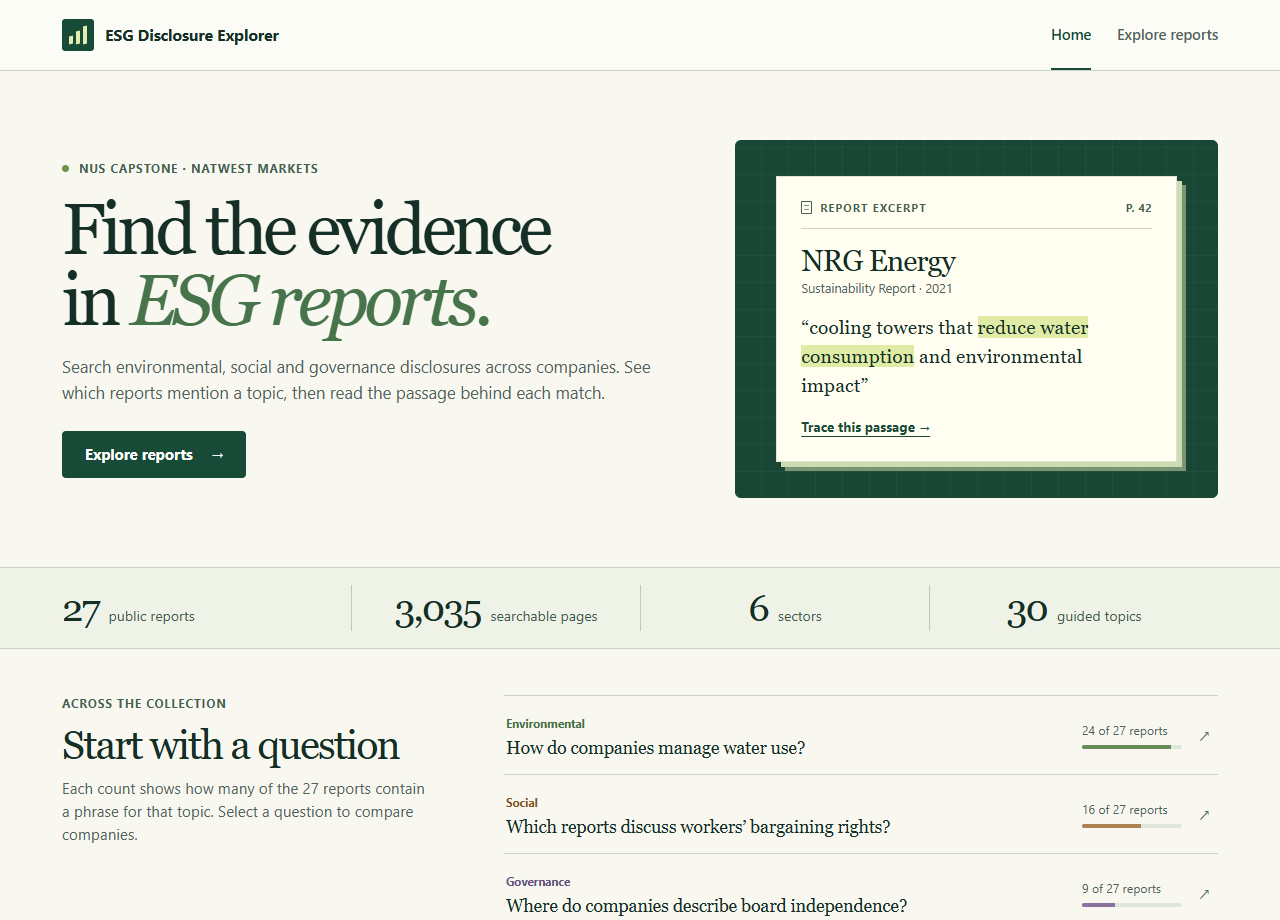
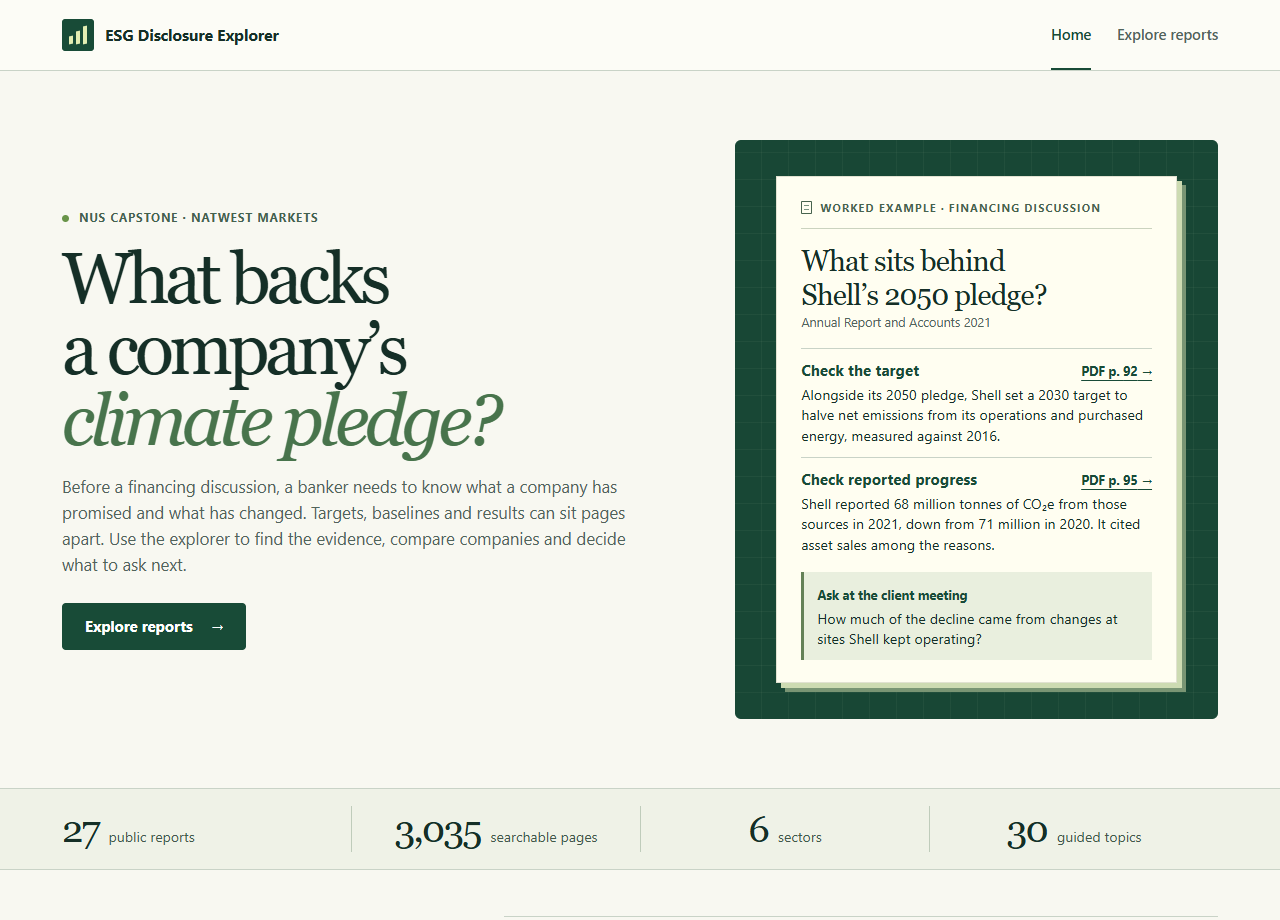
Explain transition-plan reviews with two cited pages from Shell’s 2021 report

diff --git a/frontend/src/DisclosureHome.js b/frontend/src/DisclosureHome.js
@@ -1,5 +1,5 @@
 import { RouteLink } from "./disclosureNavigation";
-import notes from "./fieldNotes.json";
+import { reviewPage, transitionReview } from "./transitionReview";
 
 const questions = [
   ["Water stewardship","How do companies manage water use?"],
@@ -7,16 +7,17 @@ const questions = [
   ["Board independence","Where do companies describe board independence?"]
 ];
 
-function EvidencePreview({catalog}) {
-  const note = notes.find(n => n.publisher === "NRG Energy" && n.page === 42);
-  const report = catalog.reports.find(r=>r.publisher===note.publisher);
-  return <aside className="evidence-preview" aria-label="Example disclosure">
+function BankingExample() {
+  return <aside className="evidence-preview" aria-labelledby="banking-question" id="banking-example">
     <div className="plate-grid" aria-hidden="true"/>
     <div className="evidence-sheet">
-      <div className="sheet-header"><span className="sheet-mark" aria-hidden="true"/><span>Report excerpt</span><span className="folio">p. {note.page}</span></div>
-      <h2>{report.publisher}</h2><p className="sheet-caption">{report.title} · {report.edition}</p>
-      <blockquote>“cooling towers that <mark>reduce water consumption</mark> and environmental impact”</blockquote>
-      <RouteLink to={{explore:true, topic:"Water stewardship",publisher:report.publisher,page:note.page}}>Trace this passage <span aria-hidden="true">→</span></RouteLink>
+      <div className="sheet-header"><span className="sheet-mark" aria-hidden="true"/>Worked example · Financing discussion</div>
+      <h2 id="banking-question">What sits behind Shell’s 2050 pledge?</h2>
+      <p className="sheet-caption">{transitionReview.title}</p>
+      <div className="case-evidence">{transitionReview.evidence.map(({page, label, summary}) =>
+        <div key={page}><RouteLink to={reviewPage(page)}>{label} <span>PDF p. {page} →</span></RouteLink><p>{summary}</p></div>
+      )}</div>
+      <div className="case-question"><strong>Ask at the client meeting</strong><p>{transitionReview.question}</p></div>
     </div>
   </aside>;
 }
@@ -25,10 +26,10 @@ export default function DisclosureHome({catalog}) {
   const sectors = new Set(catalog.reports.map(r=>r.sector));
   return <div className="home-body"><section className="home-intro frame">
     <div className="hero-copy"><p className="eyebrow"><i/> NUS capstone · NatWest Markets</p>
-      <h1>Find the evidence in <em>ESG reports.</em></h1>
-      <p className="intro-deck">Search environmental, social and governance disclosures across companies. See which reports mention a topic, then read the passage behind each match.</p>
+      <h1>What backs a company’s <em>climate pledge?</em></h1>
+      <p className="intro-deck">Before a financing discussion, a banker needs to know what a company has promised and what has changed. Targets, baselines and results can sit pages apart. Use the explorer to find the evidence, compare companies and decide what to ask next.</p>
       <RouteLink to={{explore:true}} className="primary">Explore reports <span aria-hidden="true">→</span></RouteLink>
-    </div><EvidencePreview catalog={catalog}/>
+    </div><BankingExample/>
   </section>
   <div className="collection-band"><div className="frame stat-row">
     {[[catalog.reports.length,"public reports"],[catalog.pages.length,"searchable pages"],[sectors.size,"sectors"],[catalog.topics.length,"guided topics"]].map(([n,label])=><div key={label}><strong>{n.toLocaleString("en")}</strong><span>{label}</span></div>)}
@@ -48,5 +49,5 @@ export default function DisclosureHome({catalog}) {
       <li><strong>Compare companies</strong><span>See how many pages match in each report. Narrow to a sector if needed.</span></li>
       <li><strong>Check the source</strong><span>Open a company, read a passage and follow its page reference into the PDF.</span></li></ol>
   </div></section>
-  <section className="frame origin"><h2>About the project</h2><p>The NUS Business Analytics capstone for NatWest Markets (August–December 2022) compared nine climate-disclosure indicators across companies. Its long-term net-zero classifier used a <a href="https://github.com/CWei88/Group17-Capstone/blob/4ea9478a551bafa79449aa4105246ee9c9aebf75/pipeline/Notebooks/training_datasets/Attribute%2012/A12.csv">training set of 1,003 labelled sentences</a>. The later public explorer lets you search 27 reports across all three ESG areas.</p></section></div>;
+  <section className="frame origin"><h2>About the project</h2><p>NatWest Markets wanted to compare corporate transition plans, but companies described emissions and targets in different ways across lengthy reports. The NUS Business Analytics capstone (August–December 2022) used machine learning to flag passages for bankers to review across nine climate indicators. Its long-term net-zero classifier was developed and evaluated on a <a href="https://github.com/CWei88/Group17-Capstone/blob/4ea9478a551bafa79449aa4105246ee9c9aebf75/pipeline/Notebooks/training_datasets/Attribute%2012/A12.csv">dataset of 1,003 labelled sentences</a>. The later public explorer lets you search 27 reports across all three ESG areas.</p></section></div>;
 }

diff --git a/frontend/src/PublicDemo.js b/frontend/src/PublicDemo.js
@@ -17,7 +17,8 @@ function Explorer({catalog}) {
   const [terms,setTerms]=useState(null);
   const [error,setError]=useState(false);
   const [attempt,setAttempt]=useState(0);
-  const shouldFocus=useRef(false);
+  // Page citations can open below the report controls, particularly on a phone.
+  const focusTarget=useRef(route.publisher && route.page ? "evidence-heading" : null);
   const position=useRef(null);
   const go=useCallback((next,{scroll=true}={})=>{
     const nextUrl=urlFor(next);
@@ -25,7 +26,11 @@ function Explorer({catalog}) {
     const oldRoute=readRoute(catalog);
     window.history.replaceState({disclosureScroll:window.scrollY},"",window.location.href);
     window.history.pushState(null,"",nextUrl);
-    shouldFocus.current=scroll && (oldRoute.explore!==!!next.explore || oldRoute.publisher!==(next.publisher||""));
+    focusTarget.current=null;
+    if(scroll){
+      if(next.publisher && next.page)focusTarget.current="evidence-heading";
+      else if(oldRoute.explore!==!!next.explore || oldRoute.publisher!==(next.publisher||""))focusTarget.current="main";
+    }
     position.current=scroll?0:null;
     setRoute(readRoute(catalog));
   },[catalog]);
@@ -35,7 +40,7 @@ function Explorer({catalog}) {
     if(window.location.pathname+window.location.search!==canonical)window.history.replaceState(window.history.state,"",canonical);
     function back(){
       position.current=window.history.state?.disclosureScroll ?? 0;
-      shouldFocus.current=true;
+      focusTarget.current="main";
       setRoute(readRoute(catalog));
     }
     window.addEventListener("popstate",back);
@@ -46,9 +51,11 @@ function Explorer({catalog}) {
     if(route.explore && !terms)return;
     // Move focus after React has finished replacing the previous view's controls.
     const frame=window.requestAnimationFrame(()=>{
-      if(shouldFocus.current)document.getElementById("main")?.focus({preventScroll:true});
-      if(position.current!==null)window.scrollTo(0,position.current);
-      shouldFocus.current=false;
+      const target=focusTarget.current && document.getElementById(focusTarget.current);
+      if(target)target.focus({preventScroll:true});
+      if(target?.id==="evidence-heading")target.scrollIntoView({block:"start"});
+      else if(position.current!==null)window.scrollTo(0,position.current);
+      focusTarget.current=null;
       position.current=null;
     });
     return ()=>window.cancelAnimationFrame(frame);

diff --git a/frontend/src/Passages.js b/frontend/src/Passages.js
@@ -2,6 +2,8 @@ import { useEffect, useState } from "react";
 import { words } from "./corpusSearch";
 import oracleNotes from "./oraclePageNotes.json";
 import notes from "./fieldNotes.json";
+import { RouteLink } from "./disclosureNavigation";
+import { reviewPage, transitionReview } from "./transitionReview";
 
 let pdfModule;
 function getPdfJs() {
@@ -34,7 +36,9 @@ function passages(text, query) {
 }
 
 export default function Passages({report,page,query}) {
-  const note=notes.find(n=>n.publisher===report.publisher&&n.page===page) ||
+  const casePage = report.publisher === transitionReview.publisher &&
+    transitionReview.evidence.find(item => item.page === page);
+  const note=casePage || notes.find(n=>n.publisher===report.publisher&&n.page===page) ||
     (report.publisher==="Oracle" && oracleNotes[page]);
   const [result,setResult]=useState(null);
   useEffect(()=>{
@@ -52,7 +56,13 @@ export default function Passages({report,page,query}) {
     load().catch(()=>{if(active)setResult([]);});
     return ()=>{active=false;if(job)job.destroy().catch(()=>{});};
   },[report.url,report.publisher,page,query,note]);
-  if(note)return <>{note.excerpt&&<blockquote>“{note.excerpt}”</blockquote>}<p className="reading-note">{note.note}</p></>;
+  if(note)return <>{note.excerpt&&<blockquote>“{note.excerpt}”</blockquote>}<p className="reading-note">{note.note}</p>
+    {casePage && <div className="case-related"><strong>Financing discussion</strong>
+      <p>{transitionReview.question}</p>
+      {transitionReview.evidence.filter(item => item.page !== page).map(item =>
+        <RouteLink key={item.page} to={reviewPage(item.page)}>{item.label} · PDF p. {item.page} →</RouteLink>
+      )}
+    </div>}</>;
   if(report.publisher==="Oracle")return <p className="reading-note">Oracle provides this page in its own PDF viewer. Follow the source link to read the original text.</p>;
   if(!result)return <p className="loading-passage" role="status">Reading the source page…</p>;
   if(!result.length)return <p className="reading-note">The text preview is unavailable. Open the cited PDF page to read the disclosure.</p>;

diff --git a/frontend/src/public-demo.css b/frontend/src/public-demo.css
@@ -45,6 +45,17 @@ body { margin:0; }
 .disclosure .evidence-sheet blockquote {font:normal clamp(1.03rem,1.52vw,1.32rem)/1.47 var(--serif);margin:16px 0 15px;}
 .disclosure mark {color:inherit;background:#e0eca5;box-decoration-break:clone;-webkit-box-decoration-break:clone;}
 .disclosure .evidence-sheet a {font-weight:650;font-size:.84rem;}
+.disclosure .case-evidence {margin-top:16px;}
+.disclosure .case-evidence>div {border-top:1px solid var(--rule);padding:10px 0;}
+.disclosure .case-evidence a {display:flex;align-items:baseline;justify-content:space-between;flex-wrap:wrap;gap:2px 12px;font-size:.95rem;text-decoration:none;}
+.disclosure .case-evidence a span {font-size:.79rem;white-space:nowrap;text-decoration:underline;}
+.disclosure .case-evidence a:hover {text-decoration:underline;}
+.disclosure .case-evidence p,.disclosure .case-question p,.disclosure .case-related p {font-size:.89rem;line-height:1.45;margin-top:3px;}
+.disclosure .case-question,.disclosure .case-related {background:#e9efde;border-left:3px solid #648157;padding:10px 13px;margin-top:6px;}
+.disclosure .case-question strong,.disclosure .case-related strong {font-size:.8rem;color:var(--green);}
+.disclosure .case-related {margin-top:16px;}
+.disclosure #evidence-heading {scroll-margin-top:24px;}
+.disclosure .case-related a {display:inline-block;margin-top:7px;font-size:.88rem;font-weight:650;}
 .disclosure .collection-band {border-block:1px solid var(--rule);background:#eff2e7;}
 .disclosure .stat-row {display:grid;grid-template-columns:repeat(4,1fr);padding-block:17px;}
 .disclosure .stat-row>div {display:flex;gap:10px;align-items:baseline;justify-content:center;border-left:1px solid #bfccbb;}

diff --git a/frontend/src/transitionReview.js b/frontend/src/transitionReview.js
@@ -1,0 +1,26 @@
+// Physical PDF pages in Shell's Annual Report and Accounts 2021.
+export const transitionReview = {
+  publisher: "Shell",
+  title: "Annual Report and Accounts 2021",
+  question: "How much of the decline came from changes at sites Shell kept operating?",
+  evidence: [
+    {
+      page: 92,
+      label: "Check the target",
+      summary: "Alongside its 2050 pledge, Shell set a 2030 target to halve net emissions from its operations and purchased energy, measured against 2016.",
+      excerpt: "under our operational control (including divestments) by 50% by 2030",
+      note: "Shell’s 2030 target covered absolute Scope 1 and 2 emissions on a net basis. These cover its own operations and the energy it buys to run them. The 2016 baseline and the inclusion of asset sales matter when comparing progress. Its broader 2050 pledge also covered emissions from customers using its products."
+    },
+    {
+      page: 95,
+      label: "Check reported progress",
+      summary: "Shell reported 68 million tonnes of CO₂e from those sources in 2021, down from 71 million in 2020. It cited asset sales among the reasons.",
+      excerpt: "divestments in 2020 and 2021",
+      note: "The chart shows combined Scope 1 and 2 emissions falling from 71 million tonnes of CO₂e in 2020 to 68 million in 2021. Shell lists refinery sales, shutdowns and emissions-reduction work among the reasons its direct emissions fell. The chart groups divestments with other factors, so it gives no separate figure for asset sales alone."
+    }
+  ]
+};
+
+export function reviewPage(page) {
+  return { explore: true, publisher: transitionReview.publisher, page };
+}

diff --git a/frontend/src/PublicDemo.test.js b/frontend/src/PublicDemo.test.js
@@ -1,0 +1,29 @@
+import { fireEvent, render, screen, waitFor } from "@testing-library/react";
+import PublicDemo from "./PublicDemo";
+
+test("a citation opens on the evidence heading, including links between related pages", async () => {
+  const catalog = {
+    reports: [{ publisher: "Shell", sector: "Oil and gas", edition: "2021", url: "https://example.org/report.pdf" }],
+    pages: [[0, 92, 50, []], [0, 95, 50, []]], stop: [], topics: []
+  };
+  const initialUrl = window.location.href;
+  const previousFetch = global.fetch;
+  const previousScroll = HTMLElement.prototype.scrollIntoView;
+  global.fetch = jest.fn(async url => ({ ok: true, json: async () => url.endsWith("catalog.json") ? catalog : {} }));
+  HTMLElement.prototype.scrollIntoView = jest.fn();
+  try {
+    window.history.replaceState({}, "", "/?publisher=Shell&page=92");
+    render(<PublicDemo />);
+    const target = await screen.findByRole("heading", { name: "PDF page 92" });
+    await waitFor(() => expect(target).toHaveFocus());
+    fireEvent.click(screen.getByRole("link", { name: /Check reported progress/ }));
+    const progress = await screen.findByRole("heading", { name: "PDF page 95" });
+    await waitFor(() => expect(progress).toHaveFocus());
+    expect(HTMLElement.prototype.scrollIntoView).toHaveBeenCalledWith({ block: "start" });
+  } finally {
+    global.fetch = previousFetch;
+    if (previousScroll) HTMLElement.prototype.scrollIntoView = previousScroll;
+    else delete HTMLElement.prototype.scrollIntoView;
+    window.history.replaceState({}, "", initialUrl);
+  }
+});

diff --git a/frontend/src/DisclosureSearch.js b/frontend/src/DisclosureSearch.js
@@ -82,7 +82,7 @@ function ReportReader({catalog,route,group,chosen}) {
         {hits.map((h,i)=><option key={h.id} value={h.page}>{isQuery?"Match "+(i+1)+" · ":""}Page {h.page}</option>)}</select>
       <div className="page-nav"><button aria-label="Previous page in results" disabled={!idx} onClick={()=>turn(idx-1)}>← Previous</button><button aria-label="Next page in results" disabled={idx===hits.length-1} onClick={()=>turn(idx+1)}>Next →</button></div>
     </div><article className="source-paper" aria-live="polite"><div className="sheet-header"><span className="sheet-mark" aria-hidden="true"/><span>Report evidence</span><span className="folio">{idx+1} / {hits.length}</span></div>
-      <h2>PDF page {selected.page}</h2>
+      <h2 id="evidence-heading" tabIndex="-1">PDF page {selected.page}</h2>
       <Passages key={report.publisher+"|"+selected.page+"|"+terms} report={report} page={selected.page} query={terms}/>
       <div className="citation"><div><strong>{report.publisher}</strong><span>{report.edition} · PDF p. {selected.page}</span></div>
         <a className="primary" href={sourcePageUrl(report,selected.page)} target="_blank" rel="noreferrer">Open source page <span aria-hidden="true">↗</span></a></div>

diff --git a/frontend/public/index.html b/frontend/public/index.html
@@ -4,7 +4,7 @@
     <meta charset="utf-8" />
     <meta name="viewport" content="width=device-width, initial-scale=1" />
     <meta name="theme-color" content="#123c35" />
-    <meta name="description" content="Search environmental, social and governance disclosures in 27 public reports. Explore the NUS capstone for NatWest Markets and trace page-level evidence." />
+    <meta name="description" content="Explore the NUS capstone for NatWest Markets. Check a company’s climate targets and reported progress before a financing discussion, then compare ESG disclosures across 27 reports." />
     <link rel="icon" href="data:," />
     <title>ESG Disclosure Explorer</title>
   </head>

diff --git a/README.md b/README.md
@@ -6,7 +6,11 @@ How do companies describe water use, labour rights or board oversight, and where
 
 This dashboard grew out of the **NUS Business Analytics capstone for NatWest Markets**, August–December 2022. The team used machine learning to explore decarbonisation strategies. The original React, Node.js and MySQL application compares company indicators by sector and reporting year. The later public dashboard extends that work across environmental, social and governance topics.
 
-[![Home page with a cited report passage and questions to explore](docs/esg-home.png)](https://fancasta.github.io/climate-disclosure-explorer/)
+Bankers preparing a financing discussion need to see which emissions a company’s pledge covers and what progress it can show. Different definitions and long reports make peer comparisons slow. The capstone links each indicator to a passage so an analyst can check its scope and bring specific questions to a client meeting.
+
+**Worked example.** Shell’s 2021 report set a 2030 target to halve net Scope 1 and 2 emissions under its operational control against 2016 levels. Its results section lists asset sales among the reasons direct emissions fell. An analyst could ask how much of the decline came from changes at sites Shell kept operating. [Read the target on PDF page 92](https://fancasta.github.io/climate-disclosure-explorer/?publisher=Shell&page=92) · [Check the reported progress on PDF page 95](https://fancasta.github.io/climate-disclosure-explorer/?publisher=Shell&page=95)
+
+[![Homepage with a worked financing discussion using Shell’s 2021 report](docs/esg-home.png)](https://fancasta.github.io/climate-disclosure-explorer/)
 
 | Guided search | Matching pages | Reports |
 | --- | ---: | ---: |
